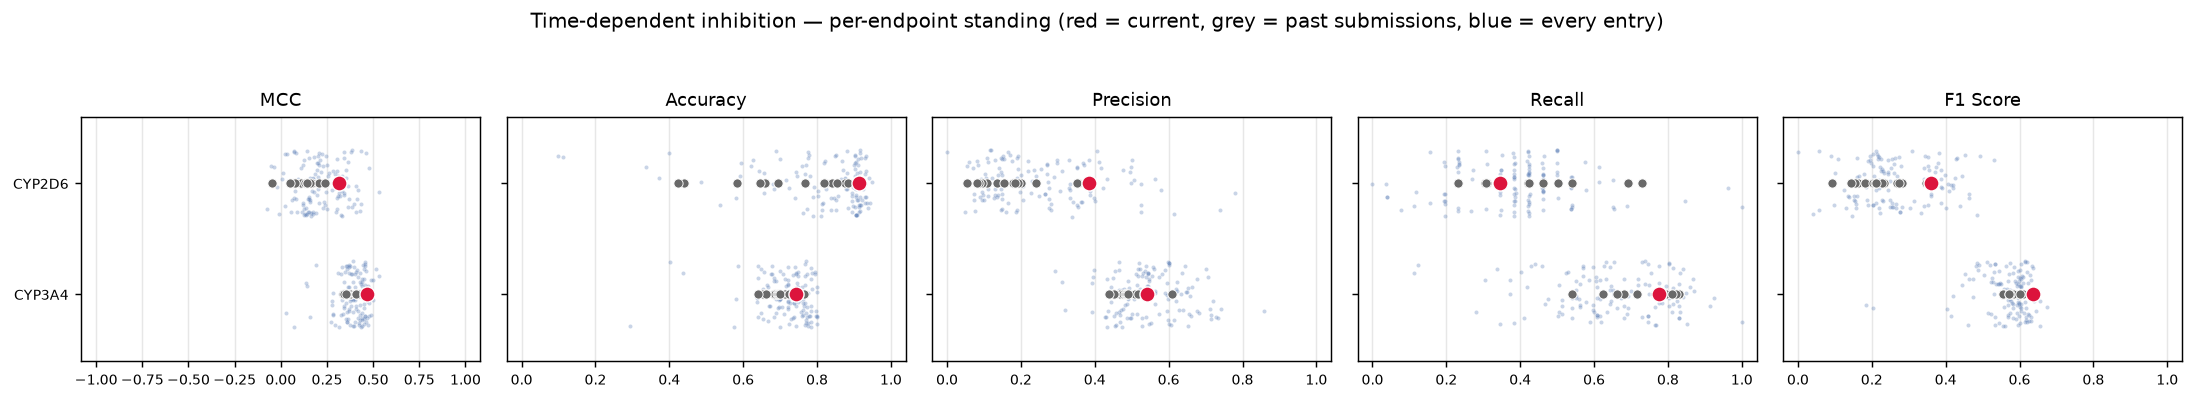
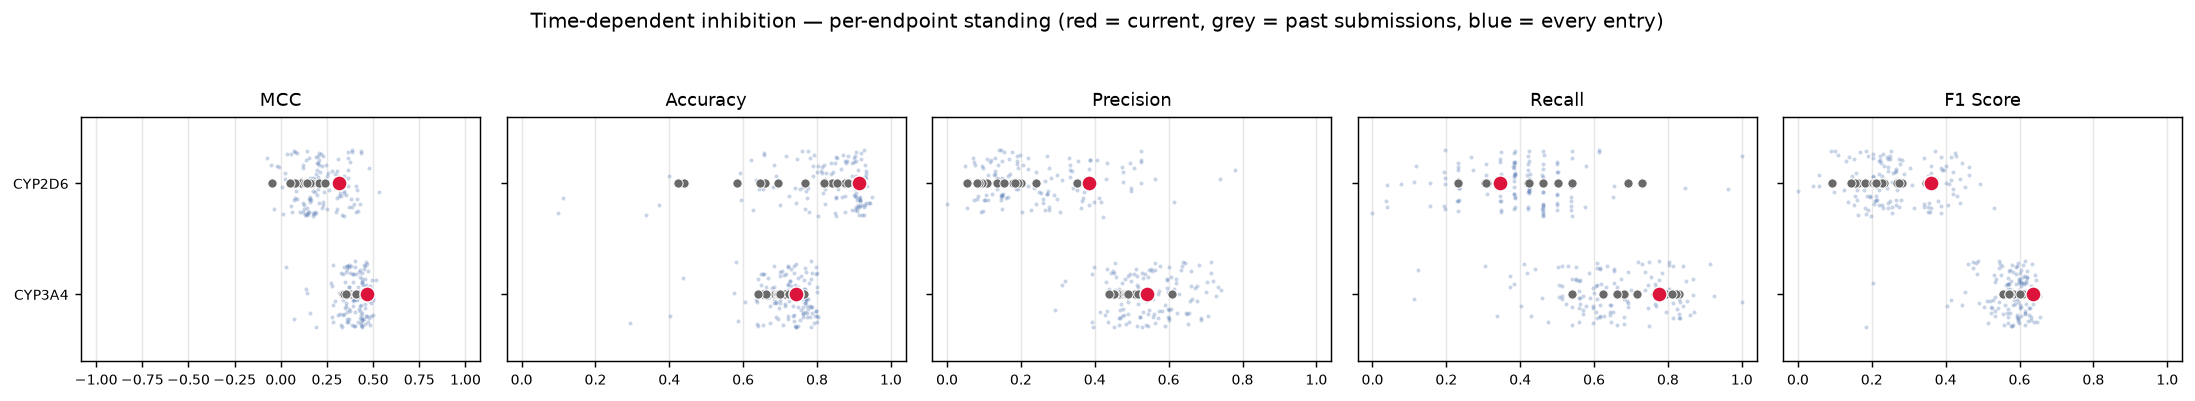
CYP inhibition challenge -- method and results

diff --git a/README.md b/README.md
@@ -29,33 +29,33 @@ Every reported number is out-of-fold. Nothing is scored on data the base learner
 
 <table>
 <thead>
-<tr><th rowspan="2">Endpoint</th><th colspan="3">Cross-validation &mdash; out-of-fold</th><th colspan="4">Blind set &mdash; interim board</th><th colspan="4">Ranking &mdash; live board, of 227 entries</th></tr>
-<tr><th>MAE</th><th>R²</th><th>Spearman ρ</th><th>ST-RAE</th><th>MAE</th><th>R²</th><th>Spearman ρ</th><th>best</th><th>latest</th><th>percentile</th><th>interim<br><small>of 219</small></th></tr>
+<tr><th rowspan="2">Endpoint</th><th colspan="3">Cross-validation &mdash; out-of-fold</th><th colspan="4">Blind set &mdash; interim board</th><th colspan="3">Ranking &mdash; live board, of 230 entries</th><th colspan="2">Ranking &mdash; interim board, of 219 entries</th></tr>
+<tr><th>MAE</th><th>R²</th><th>Spearman ρ</th><th>ST-RAE</th><th>MAE</th><th>R²</th><th>Spearman ρ</th><th>best</th><th>latest</th><th>percentile</th><th>rank</th><th>percentile</th></tr>
 </thead>
 <tbody>
-<tr><td>CYP1A2</td><td align="right">0.429</td><td align="right">0.671</td><td align="right">0.777</td><td align="right">0.441</td><td align="right">0.656</td><td align="right">0.660</td><td align="right">0.826</td><td align="right">3</td><td align="right">7</td><td align="right">top 3%</td><td align="right">30</td></tr>
-<tr><td>CYP2C9</td><td align="right">0.327</td><td align="right">0.667</td><td align="right">0.834</td><td align="right">0.380</td><td align="right">0.480</td><td align="right">0.686</td><td align="right">0.851</td><td align="right">6</td><td align="right">12</td><td align="right">top 5%</td><td align="right">20</td></tr>
-<tr><td>CYP2D6</td><td align="right">0.432</td><td align="right">0.481</td><td align="right">0.792</td><td align="right">0.653</td><td align="right">1.141</td><td align="right">0.290</td><td align="right">0.449</td><td align="right">33</td><td align="right">42</td><td align="right">top 19%</td><td align="right">37</td></tr>
-<tr><td>CYP3A4</td><td align="right">0.349</td><td align="right">0.813</td><td align="right">0.910</td><td align="right">0.386</td><td align="right">0.475</td><td align="right">0.743</td><td align="right">0.863</td><td align="right">15</td><td align="right">16</td><td align="right">top 7%</td><td align="right">23</td></tr>
-<tr><td><strong>macro average</strong></td><td align="right"><strong>0.384</strong></td><td align="right"><strong>0.658</strong></td><td align="right"><strong>0.828</strong></td><td align="right"><strong>0.465</strong></td><td align="right"><strong>0.688</strong></td><td align="right"><strong>0.595</strong></td><td align="right"><strong>0.747</strong></td><td align="right"><strong>13</strong></td><td align="right"><strong>22</strong></td><td align="right"><strong>top 10%</strong></td><td align="right"><strong>28</strong></td></tr>
+<tr><td>CYP1A2</td><td align="right">0.429</td><td align="right">0.671</td><td align="right">0.777</td><td align="right">0.441</td><td align="right">0.656</td><td align="right">0.660</td><td align="right">0.826</td><td align="right">3</td><td align="right">6</td><td align="right">top 3%</td><td align="right">30</td><td align="right">top 14%</td></tr>
+<tr><td>CYP2C9</td><td align="right">0.327</td><td align="right">0.667</td><td align="right">0.834</td><td align="right">0.380</td><td align="right">0.480</td><td align="right">0.686</td><td align="right">0.851</td><td align="right">6</td><td align="right">10</td><td align="right">top 4%</td><td align="right">20</td><td align="right">top 9%</td></tr>
+<tr><td>CYP2D6</td><td align="right">0.432</td><td align="right">0.481</td><td align="right">0.792</td><td align="right">0.653</td><td align="right">1.141</td><td align="right">0.290</td><td align="right">0.449</td><td align="right">33</td><td align="right">42</td><td align="right">top 18%</td><td align="right">37</td><td align="right">top 17%</td></tr>
+<tr><td>CYP3A4</td><td align="right">0.349</td><td align="right">0.813</td><td align="right">0.910</td><td align="right">0.386</td><td align="right">0.475</td><td align="right">0.743</td><td align="right">0.863</td><td align="right">14</td><td align="right">14</td><td align="right">top 6%</td><td align="right">23</td><td align="right">top 11%</td></tr>
+<tr><td><strong>macro average</strong></td><td align="right"><strong>0.384</strong></td><td align="right"><strong>0.658</strong></td><td align="right"><strong>0.828</strong></td><td align="right"><strong>0.465</strong></td><td align="right"><strong>0.688</strong></td><td align="right"><strong>0.595</strong></td><td align="right"><strong>0.747</strong></td><td align="right"><strong>13</strong></td><td align="right"><strong>21</strong></td><td align="right"><strong>top 9%</strong></td><td align="right"><strong>28</strong></td><td align="right"><strong>top 13%</strong></td></tr>
 </tbody>
 </table>
-<p><em>The live leaderboard scores half the held-out set; the <strong>interim</strong> column is the organisers' interim board of 219 entries, scored on all of it. The macro row there sits in <strong>Tier 6</strong> of their significance tiering.</em></p>
+<p><em>The two ranking groups are different boards and their percentiles are not comparable: the live leaderboard scores half the held-out set, the <strong>interim</strong> board scores all of it. The macro row there sits in <strong>Tier 6</strong> of their significance tiering.</em></p>
 
 **Time-dependent inhibition** (binary)
 
 <table>
 <thead>
-<tr><th rowspan="2">Endpoint</th><th colspan="2">Cross-validation &mdash; out-of-fold</th><th colspan="3">Blind set &mdash; interim board</th><th colspan="4">Ranking &mdash; live board, of 127 entries</th></tr>
-<tr><th>MCC</th><th>AUC</th><th>MCC</th><th>Accuracy</th><th>F1</th><th>best</th><th>latest</th><th>percentile</th><th>interim<br><small>of 114</small></th></tr>
+<tr><th rowspan="2">Endpoint</th><th colspan="2">Cross-validation &mdash; out-of-fold</th><th colspan="3">Blind set &mdash; interim board</th><th colspan="3">Ranking &mdash; live board, of 129 entries</th><th colspan="2">Ranking &mdash; interim board, of 114 entries</th></tr>
+<tr><th>MCC</th><th>AUC</th><th>MCC</th><th>Accuracy</th><th>F1</th><th>best</th><th>latest</th><th>percentile</th><th>rank</th><th>percentile</th></tr>
 </thead>
 <tbody>
-<tr><td>CYP2D6</td><td align="right">0.268</td><td align="right">0.711</td><td align="right">0.256</td><td align="right">0.918</td><td align="right">0.298</td><td align="right">13</td><td align="right">30</td><td align="right">top 24%</td><td align="right">26</td></tr>
-<tr><td>CYP3A4</td><td align="right">0.437</td><td align="right">0.805</td><td align="right">0.504</td><td align="right">0.761</td><td align="right">0.671</td><td align="right">3</td><td align="right">15</td><td align="right">top 12%</td><td align="right">3</td></tr>
-<tr><td><strong>macro average</strong></td><td align="right"><strong>0.353</strong></td><td align="right"><strong>0.758</strong></td><td align="right"><strong>0.380</strong></td><td align="right"><strong>0.840</strong></td><td align="right"><strong>0.484</strong></td><td align="right"><strong>14</strong></td><td align="right"><strong>24</strong></td><td align="right"><strong>top 19%</strong></td><td align="right"><strong>6</strong></td></tr>
+<tr><td>CYP2D6</td><td align="right">0.268</td><td align="right">0.711</td><td align="right">0.256</td><td align="right">0.918</td><td align="right">0.298</td><td align="right">13</td><td align="right">31</td><td align="right">top 24%</td><td align="right">26</td><td align="right">top 23%</td></tr>
+<tr><td>CYP3A4</td><td align="right">0.437</td><td align="right">0.805</td><td align="right">0.504</td><td align="right">0.761</td><td align="right">0.671</td><td align="right">3</td><td align="right">19</td><td align="right">top 15%</td><td align="right">3</td><td align="right">top 3%</td></tr>
+<tr><td><strong>macro average</strong></td><td align="right"><strong>0.353</strong></td><td align="right"><strong>0.758</strong></td><td align="right"><strong>0.380</strong></td><td align="right"><strong>0.840</strong></td><td align="right"><strong>0.484</strong></td><td align="right"><strong>14</strong></td><td align="right"><strong>26</strong></td><td align="right"><strong>top 20%</strong></td><td align="right"><strong>6</strong></td><td align="right"><strong>top 5%</strong></td></tr>
 </tbody>
 </table>
-<p><em>The live leaderboard scores half the held-out set; the <strong>interim</strong> column is the organisers' interim board of 114 entries, scored on all of it. The macro row there sits in <strong>Tier 1</strong>, the top tier &mdash; the 26 entries they could not separate from first place.</em></p>
+<p><em>The two ranking groups are different boards and their percentiles are not comparable: the live leaderboard scores half the held-out set, the <strong>interim</strong> board scores all of it. The macro row there sits in <strong>Tier 1</strong>, the top tier &mdash; the 26 entries they could not separate from first place.</em></p>
 
 ## Leaderboard history
 
